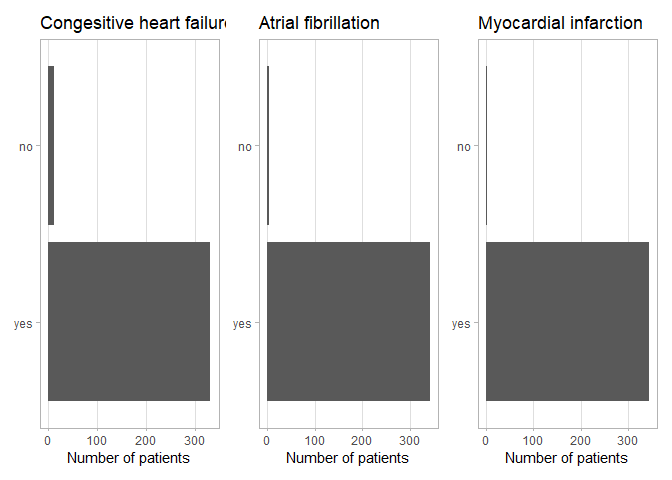
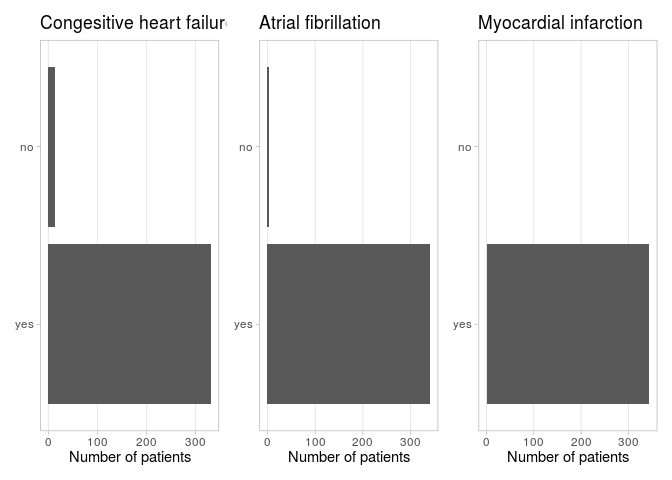
Add more measures to MH

diff --git a/01_process_crs.md b/01_process_crs.md
@@ -1,12 +1,3 @@
-  - [Read data](#read-data)
-      - [Set up](#set-up)
-      - [Read data](#read-data-1)
-      - [Check data](#check-data)
-  - [Univariate data display](#univariate-data-display)
-      - [Medical history](#medical-history)
-      - [Patient characteristics](#patient-characteristics)
-  - [Bivariate data display](#bivariate-data-display)
-
 # Read data
 
 Assumptions:
@@ -67,9 +58,12 @@ library(patchwork)
 library(here)
 ```
 
-    ## here() starts at C:/R/ida-regression
+    ## here() starts at /cloud/project
 
 ``` r
+library(skimr)
+
+
 ## Set global ggplot theme
 theme_set(theme_light())
 
@@ -463,6 +457,8 @@ crs %>% describe()
     ##      305       40       12    0.934    2.672    1.728        1        1 
     ##      .25      .50      .75      .90      .95 
     ##        2        2        3        5        6 
+    ## 
+    ## lowest :  0  1  2  3  4, highest:  7  8  9 10 12
     ##                                                                             
     ## Value          0     1     2     3     4     5     6     7     8     9    10
     ## Frequency      2    69   109    59    33     9    12     3     5     1     2
@@ -581,6 +577,8 @@ crs %>% describe()
     ##       77      268       10    0.962    3.649    2.079        1        1 
     ##      .25      .50      .75      .90      .95 
     ##        3        3        5        6        7 
+    ## 
+    ## lowest : 0 1 2 3 4, highest: 5 6 7 8 9
     ##                                                                       
     ## Value          0     1     2     3     4     5     6     7     8     9
     ## Frequency      3     6     9    22    17     8     5     4     2     1
@@ -618,17 +616,17 @@ crs %>% describe()
 A summary of medical history measured at *diagnosis* (TODO: check when
 medical history / comorbidities was assessed).
 
-### Congestive heart failure
+AFib, MI and CHF.
 
 ``` r
 crs %>% 
-  select(chf) %>%
+  select(chf, afib, mi, diabetes) %>%
   Hmisc::describe()
 ```
 
     ## . 
     ## 
-    ##  1  Variables      345  Observations
+    ##  4  Variables      345  Observations
     ## --------------------------------------------------------------------------------
     ## chf : congesitive heart failure 
     ##        n  missing distinct 
@@ -638,14 +636,39 @@ crs %>%
     ## Frequency    332    13
     ## Proportion 0.962 0.038
     ## --------------------------------------------------------------------------------
+    ## afib : arterial fibrillation 
+    ##        n  missing distinct 
+    ##      345        0        2 
+    ##                       
+    ## Value          0     1
+    ## Frequency    341     4
+    ## Proportion 0.988 0.012
+    ## --------------------------------------------------------------------------------
+    ## mi : myocardio infarction 
+    ##        n  missing distinct 
+    ##      345        0        2 
+    ##                       
+    ## Value          0     1
+    ## Frequency    344     1
+    ## Proportion 0.997 0.003
+    ## --------------------------------------------------------------------------------
+    ## diabetes 
+    ##        n  missing distinct 
+    ##      345        0        2 
+    ##                       
+    ## Value          0     1
+    ## Frequency    303    42
+    ## Proportion 0.878 0.122
+    ## --------------------------------------------------------------------------------
 
 ``` r
+## TODO: Turn this in to a function
 gg_chf <- 
   crs %>%
   select(chf) %>%
   mutate(chf = fct_recode(chf,
-                          "no" = "1",
-                          "yes"   = "0")) %>%
+                          "no" = "0",
+                          "yes"   = "1")) %>%
   ggplot(aes(chf)) +
   geom_bar() +
   coord_flip() +
@@ -658,34 +681,13 @@ gg_chf <-
   )
 ```
 
-### AFib
-
-``` r
-crs %>% 
-  select(afib) %>%
-  Hmisc::describe()
-```
-
-    ## . 
-    ## 
-    ##  1  Variables      345  Observations
-    ## --------------------------------------------------------------------------------
-    ## afib : arterial fibrillation 
-    ##        n  missing distinct 
-    ##      345        0        2 
-    ##                       
-    ## Value          0     1
-    ## Frequency    341     4
-    ## Proportion 0.988 0.012
-    ## --------------------------------------------------------------------------------
-
 ``` r
 gg_afib <- 
   crs %>%
   select(afib) %>%
   mutate(afib = fct_recode(afib,
-                          "no" = "1",
-                          "yes"   = "0")) %>%
+                          "no" = "0",
+                          "yes"   = "1")) %>%
   ggplot(aes(afib)) +
   geom_bar() +
   coord_flip() +
@@ -698,34 +700,13 @@ gg_afib <-
   )
 ```
 
-### Myocardial infarction
-
-``` r
-crs %>% 
-  select(mi) %>%
-  Hmisc::describe()
-```
-
-    ## . 
-    ## 
-    ##  1  Variables      345  Observations
-    ## --------------------------------------------------------------------------------
-    ## mi : myocardio infarction 
-    ##        n  missing distinct 
-    ##      345        0        2 
-    ##                       
-    ## Value          0     1
-    ## Frequency    344     1
-    ## Proportion 0.997 0.003
-    ## --------------------------------------------------------------------------------
-
 ``` r
 gg_mi <- 
   crs %>%
   select(mi) %>%
   mutate(mi = fct_recode(mi,
-                          "no" = "1",
-                          "yes"   = "0")) %>%
+                          "no" = "0",
+                          "yes"   = "1")) %>%
   ggplot(aes(mi)) +
   geom_bar() +
   coord_flip() +
@@ -738,16 +719,35 @@ gg_mi <-
   )
 ```
 
-### Plot commodities
+Diabetes (type 1 and type2?)
+
+``` r
+gg_dia <- 
+  crs %>%
+  select(diabetes) %>%
+  mutate(diabetes = fct_recode(diabetes,
+                          "no" = "0",
+                          "yes"   = "1")) %>%
+  ggplot(aes(diabetes)) +
+  geom_bar() +
+  coord_flip() +
+  ggtitle("Diabetes") +
+  ylab("Number of patients") +
+  theme(
+    panel.grid.minor = element_blank(),
+    panel.grid.major.y = element_blank(),
+    axis.title.y = element_blank()
+  )
+```
 
 Plot of the distribution of patients with specific comorbidities
 measured at diagnosis.
 
 ``` r
-gg_chf + gg_afib + gg_mi
+(gg_chf + gg_afib) / (gg_mi + gg_dia)
 ```
 
-![](01_process_crs_files/figure-gfm/unnamed-chunk-11-1.png)<!-- -->
+![](01_process_crs_files/figure-gfm/unnamed-chunk-10-1.png)<!-- -->
 
 ## Patient characteristics
 
@@ -763,6 +763,6 @@ gg1 <- crs %>%
 gg1 
 ```
 
-![](01_process_crs_files/figure-gfm/unnamed-chunk-13-1.png)<!-- -->
+![](01_process_crs_files/figure-gfm/unnamed-chunk-12-1.png)<!-- -->
 
 # Bivariate data display
